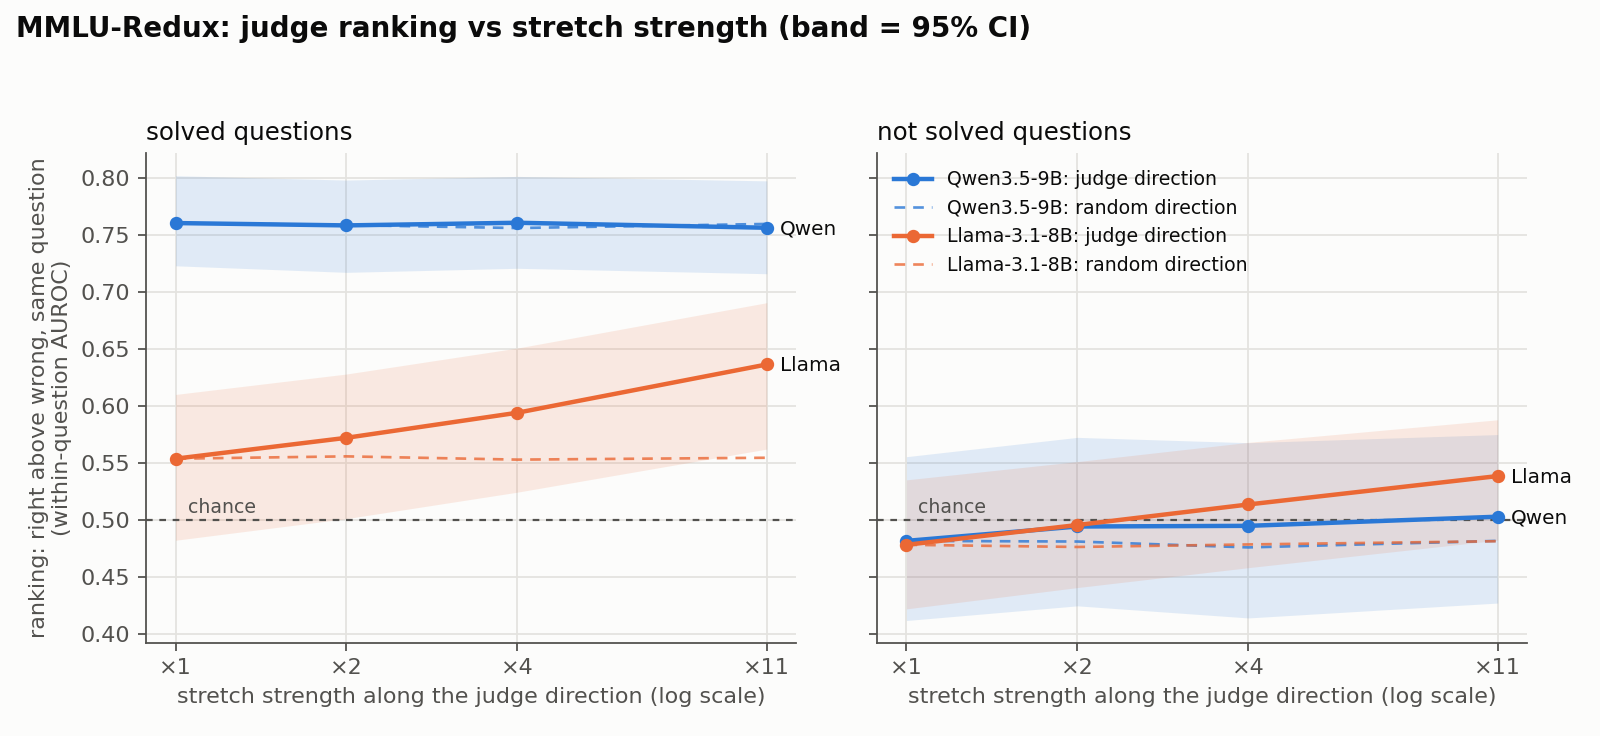
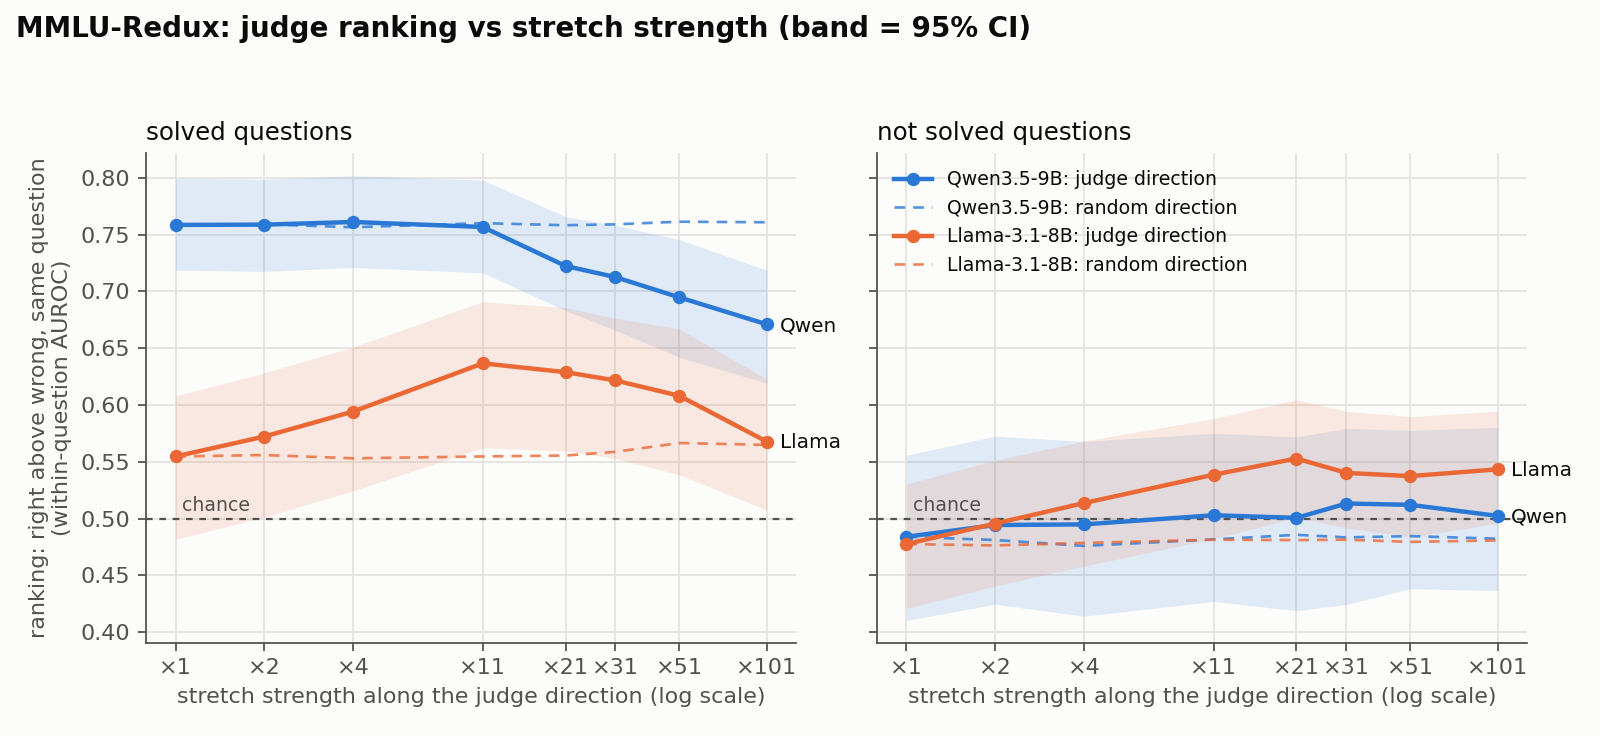
Add stronger-stretch results (x21-x101) to the Nov 9 reports
Llama peaks at x11-x21 and never exceeds what the judge direction knows;
Qwen gets worse when over-stretched. Updated strength-curve figure and tables.

diff --git a/experiments/beyond_capability/out_mmlu/stretch_curve_mmlu.md b/experiments/beyond_capability/out_mmlu/stretch_curve_mmlu.md
@@ -11,12 +11,20 @@ Ranking = within-question AUROC (0.50 = chance) [95% CI]; balanced accuracy in b
 | ×2 | 0.76 [0.72, 0.80] (0.63) | 0.49 [0.42, 0.57] (0.50) | 0.76 [0.72, 0.80] (0.61) | 0.48 [0.41, 0.55] (0.50) |
 | ×4 | 0.76 [0.72, 0.80] (0.66) | 0.49 [0.41, 0.57] (0.51) | 0.76 [0.72, 0.80] (0.61) | 0.48 [0.41, 0.55] (0.50) |
 | ×11 | 0.76 [0.72, 0.80] (0.68) | 0.50 [0.43, 0.58] (0.51) | 0.76 [0.72, 0.80] (0.61) | 0.48 [0.41, 0.56] (0.50) |
+| ×21 | 0.72 [0.68, 0.77] (0.68) | 0.50 [0.42, 0.57] (0.50) | 0.76 [0.72, 0.80] (0.62) | 0.49 [0.42, 0.56] (0.50) |
+| ×31 | 0.71 [0.67, 0.76] (0.68) | 0.51 [0.42, 0.58] (0.50) | 0.76 [0.72, 0.80] (0.62) | 0.48 [0.41, 0.56] (0.50) |
+| ×51 | 0.69 [0.64, 0.75] (0.68) | 0.51 [0.44, 0.58] (0.49) | 0.76 [0.72, 0.80] (0.62) | 0.48 [0.41, 0.56] (0.50) |
+| ×101 | 0.67 [0.62, 0.72] (0.68) | 0.50 [0.44, 0.58] (0.49) | 0.76 [0.72, 0.80] (0.61) | 0.48 [0.41, 0.55] (0.50) |
 
 ## Llama-3.1-8B
 
 | Stretch | solved: judge | not solved: judge | solved: random | not solved: random |
 |---|---|---|---|---|
-| ×1 | 0.55 [0.48, 0.61] (0.52) | 0.48 [0.42, 0.54] (0.50) | 0.55 [0.48, 0.61] (0.52) | 0.48 [0.42, 0.54] (0.50) |
+| ×1 | 0.55 [0.48, 0.61] (0.52) | 0.48 [0.42, 0.53] (0.50) | 0.55 [0.48, 0.61] (0.52) | 0.48 [0.42, 0.53] (0.50) |
 | ×2 | 0.57 [0.50, 0.63] (0.53) | 0.50 [0.44, 0.55] (0.50) | 0.56 [0.48, 0.61] (0.52) | 0.48 [0.42, 0.53] (0.50) |
 | ×4 | 0.59 [0.52, 0.65] (0.53) | 0.51 [0.46, 0.57] (0.51) | 0.55 [0.48, 0.61] (0.52) | 0.48 [0.43, 0.53] (0.50) |
 | ×11 | 0.64 [0.56, 0.69] (0.57) | 0.54 [0.48, 0.59] (0.53) | 0.55 [0.48, 0.61] (0.52) | 0.48 [0.43, 0.53] (0.50) |
+| ×21 | 0.63 [0.56, 0.69] (0.58) | 0.55 [0.50, 0.60] (0.54) | 0.56 [0.49, 0.61] (0.52) | 0.48 [0.43, 0.54] (0.50) |
+| ×31 | 0.62 [0.55, 0.68] (0.60) | 0.54 [0.49, 0.59] (0.54) | 0.56 [0.49, 0.62] (0.52) | 0.48 [0.42, 0.54] (0.50) |
+| ×51 | 0.61 [0.54, 0.67] (0.60) | 0.54 [0.48, 0.59] (0.54) | 0.57 [0.50, 0.62] (0.52) | 0.48 [0.42, 0.53] (0.50) |
+| ×101 | 0.57 [0.51, 0.62] (0.58) | 0.54 [0.50, 0.59] (0.54) | 0.56 [0.49, 0.62] (0.52) | 0.48 [0.42, 0.54] (0.50) |

diff --git a/experiments/beyond_capability/report_2026-11-09-kensho-judging-direction.md b/experiments/beyond_capability/report_2026-11-09-kensho-judging-direction.md
@@ -160,8 +160,21 @@ In the ROC figure above, this is the dotted vertical gap between the hollow dot 
 - **Compared with its original verdict, stretched Llama still loses right answers** (95% → 89% on solved questions). It loses fewer than any other way of rejecting that many more wrong answers.
 - **Limit:** after stretching, Llama still accepts 79% of wrong answers on questions it can't solve, and at its original, very lenient setting the gain nearly disappears.
 
+**Stronger stretches (×21 to ×101).** ×11 is about the best strength; going stronger doesn't help:
+
+| Judge | Questions | ×1 | ×11 | best | ×101 | Direction alone ("knows") |
+|---|---|---|---|---|---|---|
+| Llama | solved | 0.55 | **0.64** | 0.64 (×11) | 0.57 | 0.70 |
+| Llama | not solved | 0.48 | 0.54 | **0.55 (×21)** | 0.54 | 0.58 |
+| Qwen | solved | 0.76 | 0.76 | 0.76 (×1–×11) | **0.67** | 0.75 |
+| Qwen | not solved | 0.48 | 0.50 | 0.51 | 0.50 | 0.53 |
+
+- **Llama peaks at ×11 to ×21, then levels off or falls.** On unsolved questions it plateaus at 0.54–0.55. On solved questions it drops back to 0.57 by ×101, because too strong an edit starts to damage the model's processing.
+- **It never goes past what the direction knows** (0.70 solved, 0.58 not solved), as predicted. Stretching recovers part of the knows-vs-says gap, not more.
+- **Qwen gets worse when over-stretched:** 0.76 → 0.67 on solved questions at ×101.
+- **The random direction stays flat at every strength.**
+
 **Caveats:**
 
 - These are 4 cases from one benchmark (MMLU-Redux).
 - On MATH, Llama's stretching gain does not replicate (+1, not significant).
-- Stronger stretches (×21–×101) are still running.

diff --git a/experiments/beyond_capability/report_2026-11-09.md b/experiments/beyond_capability/report_2026-11-09.md
@@ -122,7 +122,9 @@
 - **Practical use:** measure the gap on a small set of labelled answers before steering. No gap means steering will only make the judge stricter.
 - **Caveat:** these are only 4 cases from one benchmark. Checking it across BBEH, RB2 Math and MATH is the next step.
 
-- **Prediction for the stronger stretches (running):** Llama's ranking should level off near what the direction knows (about 0.70 solved, 0.58 not solved) and not go beyond it. Code: `azure/dir_readout.py`.
+- **Stronger stretches, now done:** Llama peaks at ×11–×21 (0.64 solved, 0.55 not solved) and never passes what the direction knows (0.70 / 0.58). Beyond that it levels off or falls (0.57 solved at ×101). Qwen gets worse when over-stretched (0.76 → 0.67 solved at ×101). The random direction is flat throughout.
+
+![Ranking vs stretch strength, MMLU-Redux](out_mmlu/stretch_curve_mmlu.png)
 
 ### 6b. Same test on MATH
 
